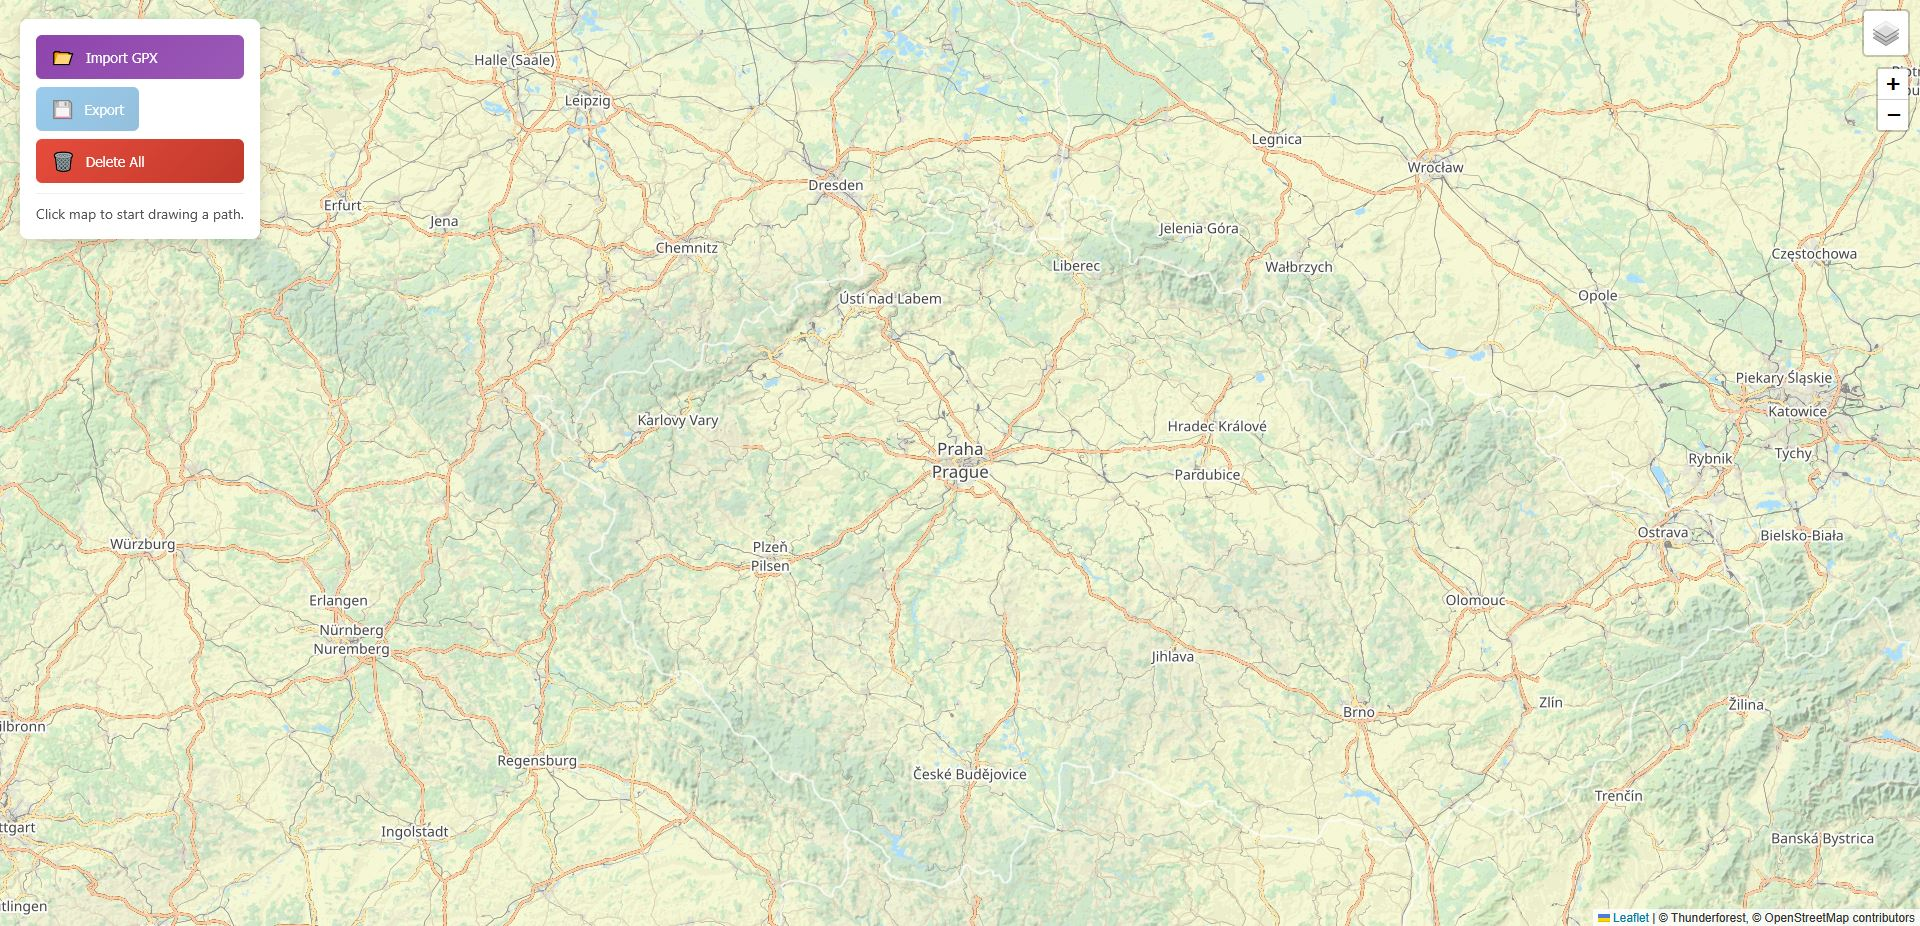
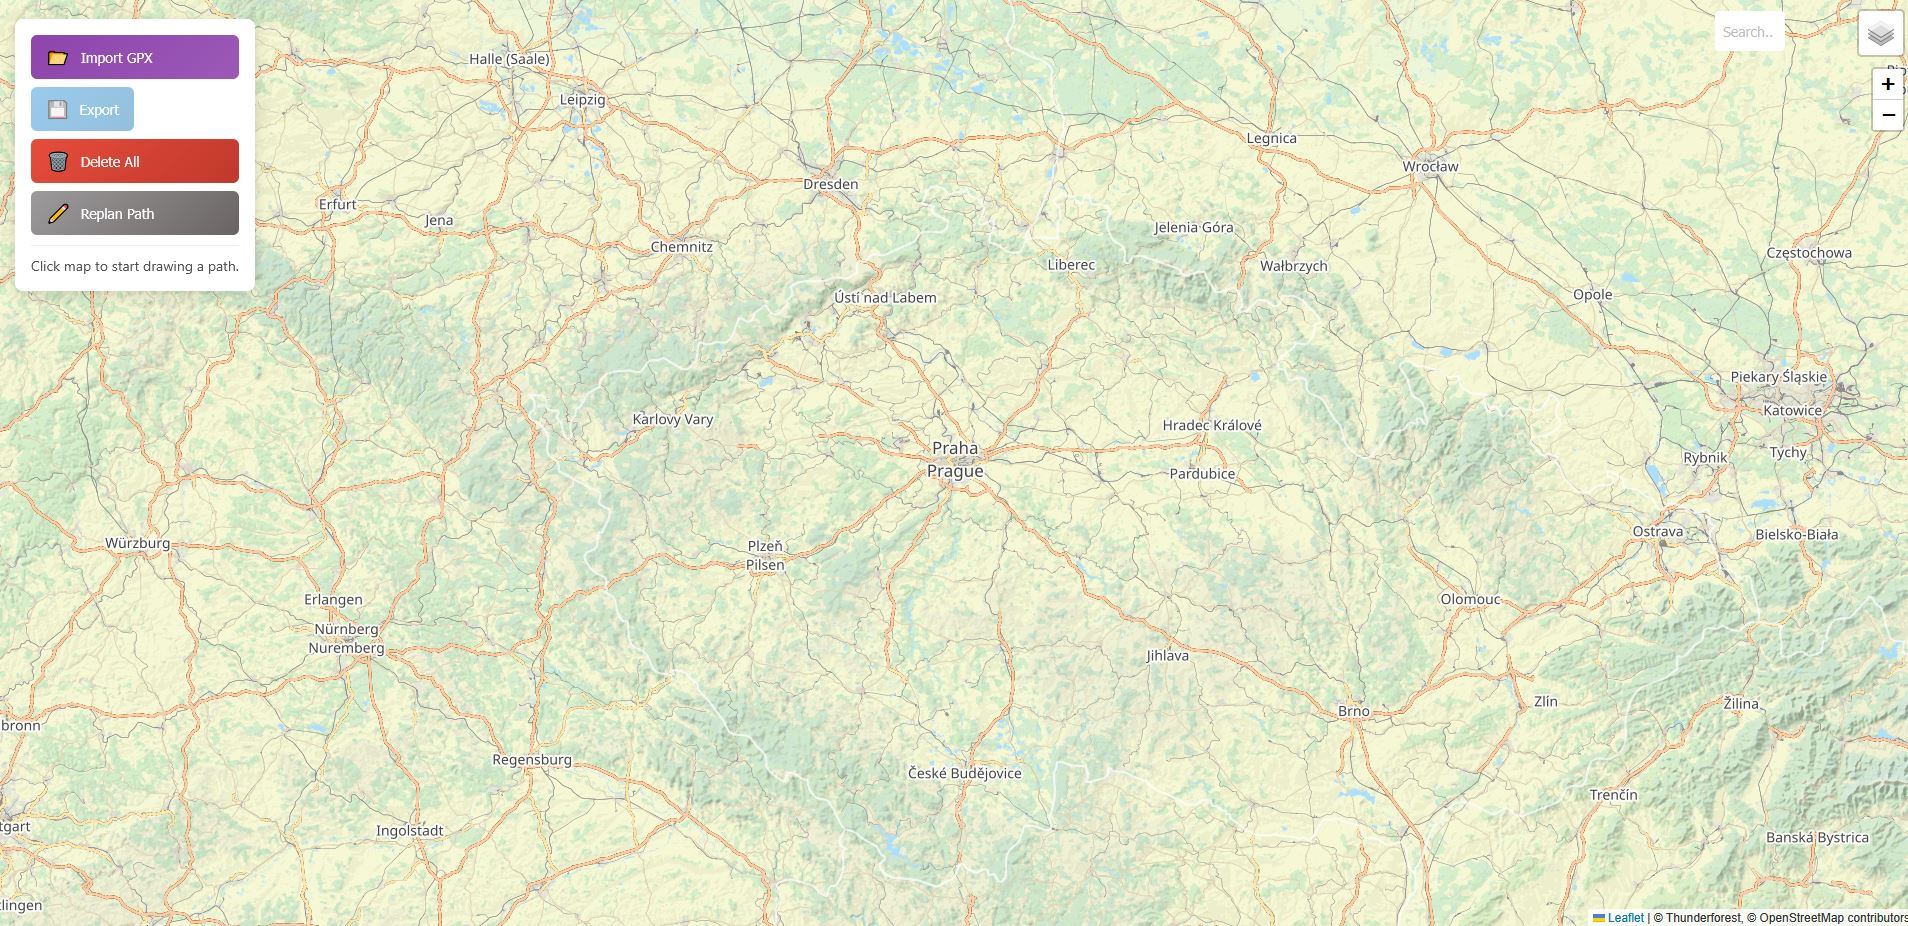
Replan function modification
Replan function recognizes multiple outputs (such as No need to replan). When path not found - RRT* tries it few more times. Added overlay when replanning
Updated readme and pyproject to stand to those modifications

diff --git a/static/js/main.js b/static/js/main.js
@@ -310,8 +310,9 @@ class PathDrawerApp {
       return;
     }
 
-    this.setProcessingState(true);
-    const progressDialog = this.ui.showProgressDialog("Replanning path...")
+    this.state.isProcessing = true;
+    this.ui.setProcessingState(this.state.isProcessing);
+    const progressDialog = this.ui.showProgressDialog("Replanning Path...");
     const coords = [];
     this.state.points.forEach(point => {
       coords.push([point.lat, point.lng]);
@@ -319,8 +320,11 @@ class PathDrawerApp {
     const data = createReplan(coords); //array of coords
     var newPath = null;
     data.then(data => {
-      if (data.newPath.length == 2){ //only start and end
-        this.ui.showStatus("Could not found new route", "error");
+      this.state.isProcessing = false; //to clear correctly
+      if (data.retrieveNum == -1){
+        this.ui.showStatus("No need to replan", "success");
+      }else if (data.retrieveNum == 1){
+        this.ui.showStatus("Could not found new path", "error");
       }else{
         newPath = data.newPath;
         this.clearAll();
@@ -330,9 +334,9 @@ class PathDrawerApp {
         this.redrawEverything();
         this.ui.showStatus("Replaned done", "success");
       }
-    })
-    this.setProcessingState(false);
-    progressDialog.close();
+      this.ui.setProcessingState(this.state.isProcessing);
+      progressDialog.close();
+    });
   }
 
   async sharePathViaWormhole() {
@@ -415,3 +419,4 @@ class PathDrawerApp {
 document.addEventListener("DOMContentLoaded", () => {
   new PathDrawerApp();
 });
+//todo counter na replan (seg path), retrieve number na new_path_seg, 10:45

diff --git a/static/js/modules/api.js b/static/js/modules/api.js
@@ -50,7 +50,3 @@ export async function createReplan(points){
   }
   return response.json();
 }
-
-export async function cancelReplan(points){
-  //todo
-}

diff --git a/app.py b/app.py
@@ -234,7 +234,7 @@ def cancel_wormhole():
     success, message = wormhole_manager_instance.cancel_transfer(transfer_id)
     return jsonify({"success": success, "message": message})
 
-@api_bp.route("/create_replan", methods = ["POST"])#10:30
+@api_bp.route("/create_replan", methods = ["POST"])
 def create_replan():
     path_data = request.json.get("points") #get coords = array of [lat, lon] points
     args = parse_args()
@@ -255,7 +255,9 @@ def create_replan():
     new_path = []
     utm_path = []
     new_path.append(( np.float64(path_data[0][0]),np.float64(path_data[0][1]) )) #append start point
-  
+    try_again = 0
+    changed = False
+
     for p in path_data:
         newp = utm.from_latlon(float(p[0]), float(p[1]), map_data.zone_number, map_data.zone_letter) #convert coords to utm
         utm_path.append(newp)
@@ -264,20 +266,27 @@ def create_replan():
         if (i + 1) < len(utm_path):
             seg_path = np.array([[utm_path[i][0], utm_path[i][1]], [utm_path[i+1][0], utm_path[i+1][1]]]) #for each two points of path
             res = replanner.replan_rrt(seg_path)
-            if (res is None):
-                continue #path has not been found
+            while (res is None and try_again <= 3):  #path has not been found
+                print("Info: trying to find path again in between", seg_path, "points")
+                try_again += 1
+                res = replanner.replan_rrt(seg_path)
+            if (try_again >= 3):
+                print("Path not found")
+                try_again = 0
+                continue #retrieve path founding error do not append points
+            
             for i in range(1,len(res)-1):
+                changed = True
                 new_path.append(utm.to_latlon(res[i][0], res[i][1], map_data.zone_number, map_data.zone_letter)) #convert point to lat lon
 
     new_path.append(( np.float64(path_data[len(path_data)-1][0]),np.float64(path_data[len(path_data)-1][1]) )) #append end point
-    if (len(new_path) == 2): #only start and end point
-        return jsonify({"success":False, "newPath": new_path })
-    return jsonify({"success": True, "newPath": new_path})
+    if (changed): #path changed
+        return jsonify ({"retrieveNum": 0, "newPath": new_path})
+    elif (not changed and len(path_data) == len(new_path)):
+        return jsonify({"retrieveNum": -1, "newPath": new_path}) #path the same, special condition
+    return jsonify ({"retrieveNum": 1, "newPath": None}) #path not found
+    
 
-@api_bp.route("/cancel_replan", methods=["POST"])
-def cancel_replan():
-    #todo
-    pass
 
 def create_app():
     """Application factory."""

diff --git a/README.md b/README.md
@@ -17,6 +17,8 @@ Its controls do as listed:
 - Import GPX button imports a Path from GPX file
 - Export button exports current Path to GPX file
 - Delete All button deletes all object on the map
+- User can use expandable Search bar with autocomplete to find its desired place
+- Replan button may find a new way to avoid obstacles 
 
 ## Installation
 
